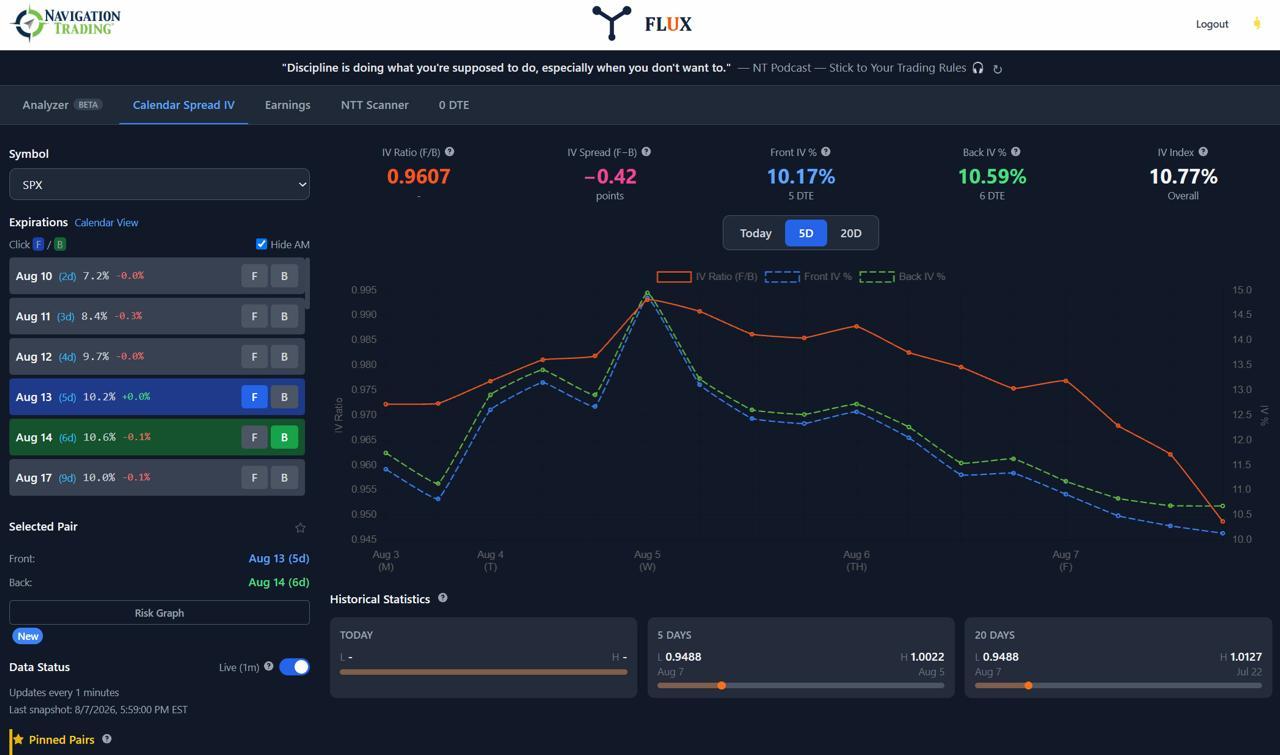
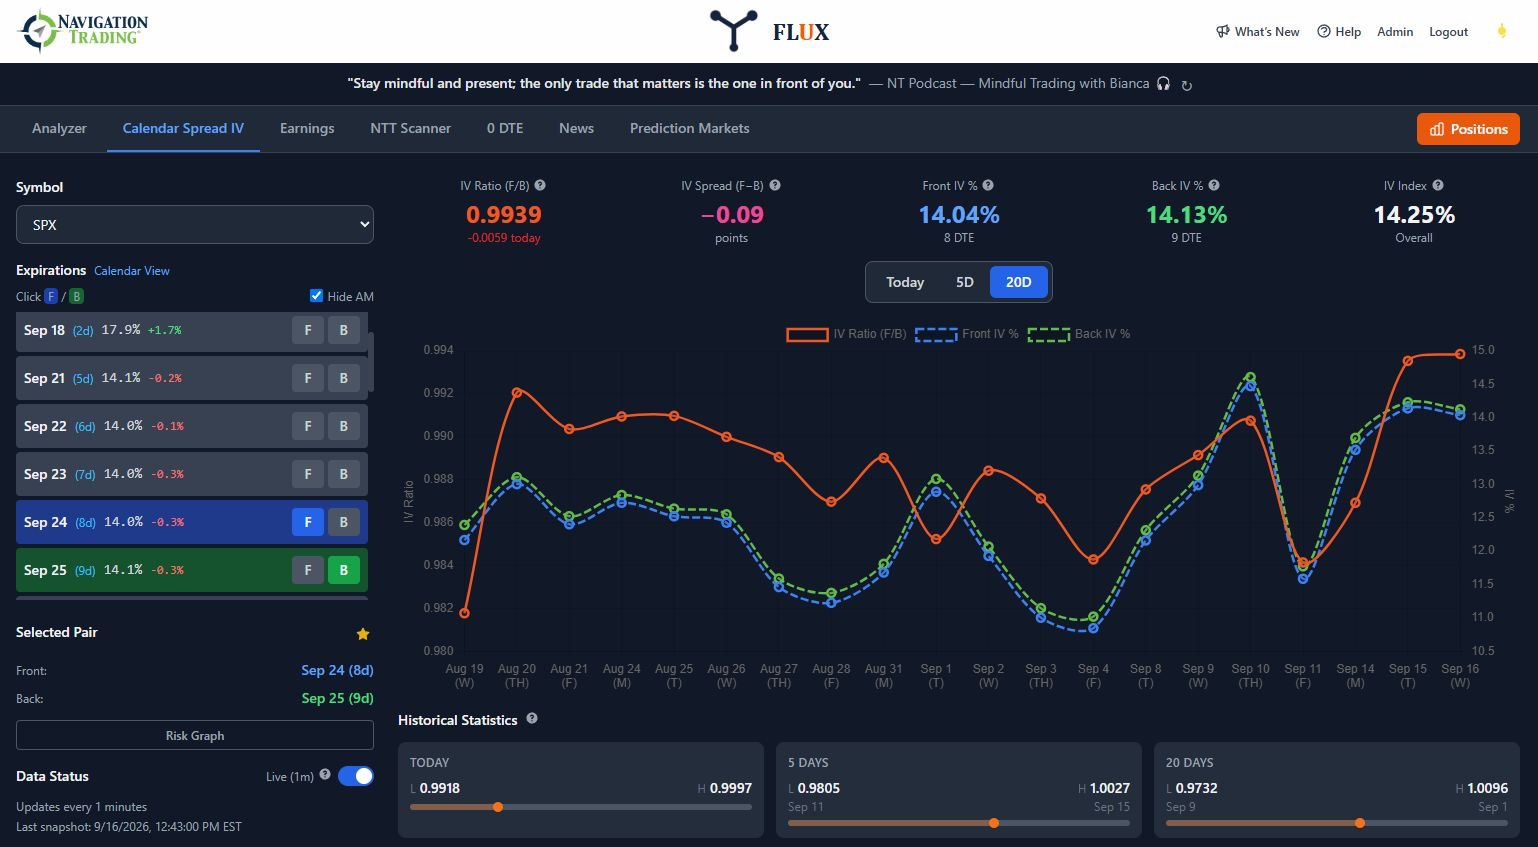
Batch: homepage redesign, coaching/day-trading hero images, Flux page cleanup, admin drag-reorder
- index.html: removed video from "Our Approach" (now a single centered
  section, 3 pillars in a row, no added content), and changed the
  "Four pathways" section background from cream to white.
- coaching.html: hero image swapped to the new coaching-topics pie
  chart graphic.
- day-trading-membership.html: hero image swapped to the new 10-course
  curriculum list graphic (portrait aspect ratio, object-fit: contain
  so nothing is cropped).
- newflux.jpeg (root, transformer-option-spreads-content/, flux/public/):
  replaced with the latest FLUX product screenshot (Calendar Spread IV
  tab) — updates every page that references this filename automatically.
- Flux app: removed the LogoMarquee section, the "Everything you need"
  (Calendar IV/News/Prediction Markets) section, the "How current is
  the data in FLUX?" FAQ entry, and the unverified "200+" stat plus its
  3 generic testimonial cards.
- site-config.js: fixed a runtime default that still said "Audited"
  instead of "Verified" for empty year-report badges.
- blog-admin site-config editor: added drag-and-drop reordering (plus
  up/down buttons) to every list-type field, covering both the Monthly
  Videos and Year Report Links sections.

diff --git a/blog-admin/src/app/(admin)/site-config/page.tsx b/blog-admin/src/app/(admin)/site-config/page.tsx
@@ -562,6 +562,8 @@ export default function SiteConfigPage() {
   const [loading, setLoading] = useState(true);
   const [saving, setSaving] = useState(false);
   const [status, setStatus] = useState<{ type: 'success' | 'error' | null; message: string }>({ type: null, message: '' });
+  const [dragItem, setDragItem] = useState<{ key: string; index: number } | null>(null);
+  const [dragOverIndex, setDragOverIndex] = useState<number | null>(null);
   const [isPending, startTransition] = useTransition();
 
   // Load all configurations
@@ -658,6 +660,15 @@ export default function SiteConfigPage() {
 
   const removeListItem = (key: string, index: number) => {
     setListItems(key, getListItems(key).filter((_, i) => i !== index));
+  };
+
+  const moveListItem = (key: string, fromIndex: number, toIndex: number) => {
+    const items = getListItems(key);
+    if (toIndex < 0 || toIndex >= items.length || fromIndex === toIndex) return;
+    const updated = [...items];
+    const [moved] = updated.splice(fromIndex, 1);
+    updated.splice(toIndex, 0, moved);
+    setListItems(key, updated);
   };
 
   const handleSave = async (e: React.FormEvent) => {
@@ -1023,8 +1034,62 @@ export default function SiteConfigPage() {
                                     </div>
                                   ) : field.type === 'list' ? (
                                     <div style={{ display: 'flex', flexDirection: 'column', gap: '10px' }}>
-                                      {getListItems(field.key).map((entry, idx) => (
-                                        <div key={idx} style={{ display: 'flex', gap: '8px', alignItems: 'center' }}>
+                                      {getListItems(field.key).map((entry, idx, arr) => {
+                                        const isDragging = dragItem?.key === field.key && dragItem.index === idx;
+                                        const isDragOver = dragItem?.key === field.key && dragOverIndex === idx && !isDragging;
+                                        return (
+                                        <div
+                                          key={idx}
+                                          draggable
+                                          onDragStart={() => setDragItem({ key: field.key, index: idx })}
+                                          onDragEnter={() => {
+                                            if (dragItem && dragItem.key === field.key) setDragOverIndex(idx);
+                                          }}
+                                          onDragOver={e => e.preventDefault()}
+                                          onDrop={e => {
+                                            e.preventDefault();
+                                            if (dragItem && dragItem.key === field.key) {
+                                              moveListItem(field.key, dragItem.index, idx);
+                                            }
+                                            setDragItem(null);
+                                            setDragOverIndex(null);
+                                          }}
+                                          onDragEnd={() => { setDragItem(null); setDragOverIndex(null); }}
+                                          style={{
+                                            display: 'flex',
+                                            gap: '8px',
+                                            alignItems: 'center',
+                                            opacity: isDragging ? 0.4 : 1,
+                                            borderTop: isDragOver ? '2px solid var(--accent-color)' : '2px solid transparent',
+                                            transition: 'opacity 0.15s, border-color 0.15s',
+                                          }}
+                                        >
+                                          <span
+                                            title="Drag to reorder"
+                                            style={{ cursor: 'grab', color: 'var(--text-secondary)', fontSize: '14px', flexShrink: 0, padding: '0 2px', userSelect: 'none' }}
+                                          >
+                                            ⠿
+                                          </span>
+                                          <div style={{ display: 'flex', flexDirection: 'column', gap: '2px', flexShrink: 0 }}>
+                                            <button
+                                              type="button"
+                                              onClick={() => moveListItem(field.key, idx, idx - 1)}
+                                              disabled={idx === 0}
+                                              title="Move up"
+                                              style={{ background: 'none', border: '1px solid var(--border-color)', color: idx === 0 ? '#cbd5e1' : 'var(--text-secondary)', cursor: idx === 0 ? 'default' : 'pointer', width: '22px', height: '18px', fontSize: '10px', borderRadius: '4px', lineHeight: 1 }}
+                                            >
+                                              ▲
+                                            </button>
+                                            <button
+                                              type="button"
+                                              onClick={() => moveListItem(field.key, idx, idx + 1)}
+                                              disabled={idx === arr.length - 1}
+                                              title="Move down"
+                                              style={{ background: 'none', border: '1px solid var(--border-color)', color: idx === arr.length - 1 ? '#cbd5e1' : 'var(--text-secondary)', cursor: idx === arr.length - 1 ? 'default' : 'pointer', width: '22px', height: '18px', fontSize: '10px', borderRadius: '4px', lineHeight: 1 }}
+                                            >
+                                              ▼
+                                            </button>
+                                          </div>
                                           {(field.columns || []).map(col => (
                                             <input
                                               key={col.key}
@@ -1050,7 +1115,8 @@ export default function SiteConfigPage() {
                                             Remove
                                           </button>
                                         </div>
-                                      ))}
+                                        );
+                                      })}
                                       <button
                                         type="button"
                                         onClick={() => addListItem(field)}

diff --git a/flux/src/components/landing/Stats.tsx b/flux/src/components/landing/Stats.tsx
@@ -1,15 +1,14 @@
 export function Stats() {
   const stats = [
-    { v: "500M+", l: "Emails delivered" },
-    { v: "18.4%", l: "Avg. reply rate" },
-    { v: "97%", l: "Inbox placement" },
-    { v: "$2.5B+", l: "Pipeline generated" },
+    { v: "41,187+", l: "Happy Students and Counting" },
+    { v: "17",      l: "Strategy Courses" },
+    { v: "20+ yrs", l: "Trading Experience" },
   ];
   const notes = [
-    { t: "Prospecting that finds real buyers.", x: "6%", y: "18%" },
-    { t: "Emails that actually sound human.", x: "72%", y: "10%" },
-    { t: "Inbox placement, not promotions.", x: "78%", y: "62%" },
-    { t: "Replies handled in one place.", x: "4%", y: "70%" },
+    { t: "Strategies that actually make sense.", x: "6%",  y: "18%" },
+    { t: "Live sessions changed how I trade.",   x: "72%", y: "10%" },
+    { t: "Real trades, not just theory.",        x: "78%", y: "62%" },
+    { t: "Options finally clicked for me.",      x: "4%",  y: "70%" },
   ];
   return (
     <section id="how" className="relative overflow-hidden py-32" style={{ background: "#0D2E4E" }}>
@@ -47,7 +46,7 @@ export function Stats() {
           <circle key={i} cx={cx} cy={cy} r="4" fill="oklch(0.55 0.1495 235)" opacity="0.5" />
         ))}
       </svg>
-      {/* Floating pain-point notes */}
+      {/* Floating quotes */}
       <div className="pointer-events-none absolute inset-0 hidden lg:block">
         {notes.map((n, i) => (
           <p
@@ -63,27 +62,15 @@ export function Stats() {
         <div className="mx-auto max-w-3xl text-center">
           <p className="text-xs font-semibold uppercase tracking-[0.2em]" style={{ color: "#e87040" }}>By the numbers</p>
           <h2 className="mt-4 font-display text-4xl leading-[1.05] text-white text-balance md:text-6xl">
-            Outbound results, <span className="italic" style={{ color: "#e87040" }}>quantified.</span>
+            Trading education, <span className="italic" style={{ color: "#e87040" }}>proven.</span>
           </h2>
         </div>
-        <div className="relative mt-16 grid grid-cols-2 gap-px overflow-hidden rounded-3xl border border-white/10 bg-white/10 md:grid-cols-4">
+        <div className="relative mt-16 grid grid-cols-1 gap-px overflow-hidden rounded-3xl border border-white/10 bg-white/10 md:grid-cols-3">
           {stats.map((s) => (
             <div key={s.l} className="group relative bg-[#0D2E4E] p-8 backdrop-blur transition-colors hover:bg-white/5">
               <p className="font-display text-5xl leading-none text-white md:text-6xl">{s.v}</p>
               <p className="mt-3 text-sm text-white/60">{s.l}</p>
               <span className="absolute inset-x-8 bottom-6 h-px scale-x-0 gradient-forest transition-transform duration-500 group-hover:scale-x-100 origin-left" />
-            </div>
-          ))}
-        </div>
-        <div className="mt-16 grid gap-4 md:grid-cols-3">
-          {[
-            { title: "70% more meetings booked", who: "Northwind · GTM Ops" },
-            { title: "4× SDR efficiency", who: "Cascade · Head of Growth" },
-            { title: "64% lower tech stack cost", who: "Fern Labs · CFO" },
-          ].map((c) => (
-            <div key={c.title} className="rounded-2xl border border-white/10 bg-white/5 p-6 backdrop-blur">
-              <p className="font-display text-2xl leading-tight text-white">{c.title}</p>
-              <p className="mt-4 text-xs uppercase tracking-wider text-white/50">{c.who}</p>
             </div>
           ))}
         </div>

diff --git a/flux/src/components/landing/Faq.tsx b/flux/src/components/landing/Faq.tsx
@@ -10,10 +10,6 @@ const faqs = [
     a: "No. FLUX is a read-only analysis tool — it models positions, tracks volatility, and surfaces signals, but every order goes through you. When you're ready to act, it hands you a pre-filled ticket or order string for ThinkorSwim, Tradier, or IBKR, and you review and submit it in your own broker.",
   },
   {
-    q: "How current is the data in FLUX?",
-    a: "Prices refresh automatically about every 30 seconds during U.S. market hours, with select feeds — like SPX in the Analyzer and 0 DTE — streaming live. Outside market hours, FLUX shows the last close and stops polling. All data is for analysis, not order routing, so always confirm live prices in your broker before trading.",
-  },
-  {
     q: "What can I actually do in the Analyzer?",
     a: "Build any options position — single legs, verticals, iron condors, calendars, and more — right-click to add structures, drag strikes to reshape a trade, and scrub time and volatility to see how it evolves. You can save, share, and import models, pull positions in directly from ThinkorSwim, and compare multiple trades side by side before ever placing an order.",
   },

diff --git a/flux/src/routes/index.tsx b/flux/src/routes/index.tsx
@@ -1,11 +1,9 @@
 import { createFileRoute } from "@tanstack/react-router";
 import { Navbar } from "@/components/landing/Navbar";
 import { Hero } from "@/components/landing/Hero";
-import { LogoMarquee } from "@/components/landing/LogoMarquee";
 import { ProductShowcase } from "@/components/landing/ProductShowcase";
 import { IntegrationFlow } from "@/components/landing/IntegrationFlow";
 import { Stats } from "@/components/landing/Stats";
-import { Features } from "@/components/landing/Features";
 import { Testimonials } from "@/components/landing/Testimonials";
 import { Faq } from "@/components/landing/Faq";
 import { Waitlist } from "@/components/landing/Waitlist";
@@ -21,9 +19,7 @@ function Index() {
       <Navbar />
       <main>
         <Hero />
-        <LogoMarquee />
         <ProductShowcase />
-        <Features />
         <Stats />
         <IntegrationFlow />
         <Testimonials />

diff --git a/day-trading-membership.html b/day-trading-membership.html
@@ -4335,8 +4335,8 @@
         <a target="_blank" rel="noopener noreferrer" href="https://whop.com/navigationtrading/ntday/" class="btn-primary" data-config="whopLink">Join the Live Trading Room — $129/month →</a>
       </div>
       <div class="dt-hero-right">
-        <div class="dt-hero-video-wrap">
-          <img src="learning02.png" alt="NavigationTrading live trading room">
+        <div class="dt-hero-video-wrap" style="aspect-ratio: 1145/1374; max-width: 340px;">
+          <img src="images/daytradinglandingpage.png" alt="Day Trading Membership course list" style="object-fit: contain;">
         </div>
       </div>
     </div>

diff --git a/site-config.js b/site-config.js
@@ -176,7 +176,7 @@
             a.href = '#';
           }
           a.innerHTML =
-            '<span class="year-badge">' + (entry.badge || 'Audited') + '</span>' +
+            '<span class="year-badge">' + (entry.badge || 'Verified') + '</span>' +
             '<div class="year-num">' + entry.year + '</div>' +
             '<div class="year-sub">' + (entry.sub || 'Full Year') + '</div>' +
             '<div class="view-report">View Report &rarr;</div>';

diff --git a/index.html b/index.html
@@ -4071,7 +4071,7 @@
        ══════════════════════════════════════════════ */
     .pathways-section {
       padding: 45px 0 50px;
-      background: linear-gradient(180deg, #fdfdfb 0%, #f5f3ec 100%);
+      background: #ffffff;
       position: relative;
       overflow: hidden;
       z-index: 1;

diff --git a/coaching.html b/coaching.html
@@ -304,7 +304,7 @@
       </div>
       <div class="hero-right">
         <div class="hero-image-wrap">
-          <img src="newflux.jpeg" alt="NavigationTrading FLUX tool">
+          <img src="images/image.png" alt="Private Coaching topics: Automation, Trading Plan, Strategy, Mindset, Accountability, Backtesting">
         </div>
       </div>
     </div>
